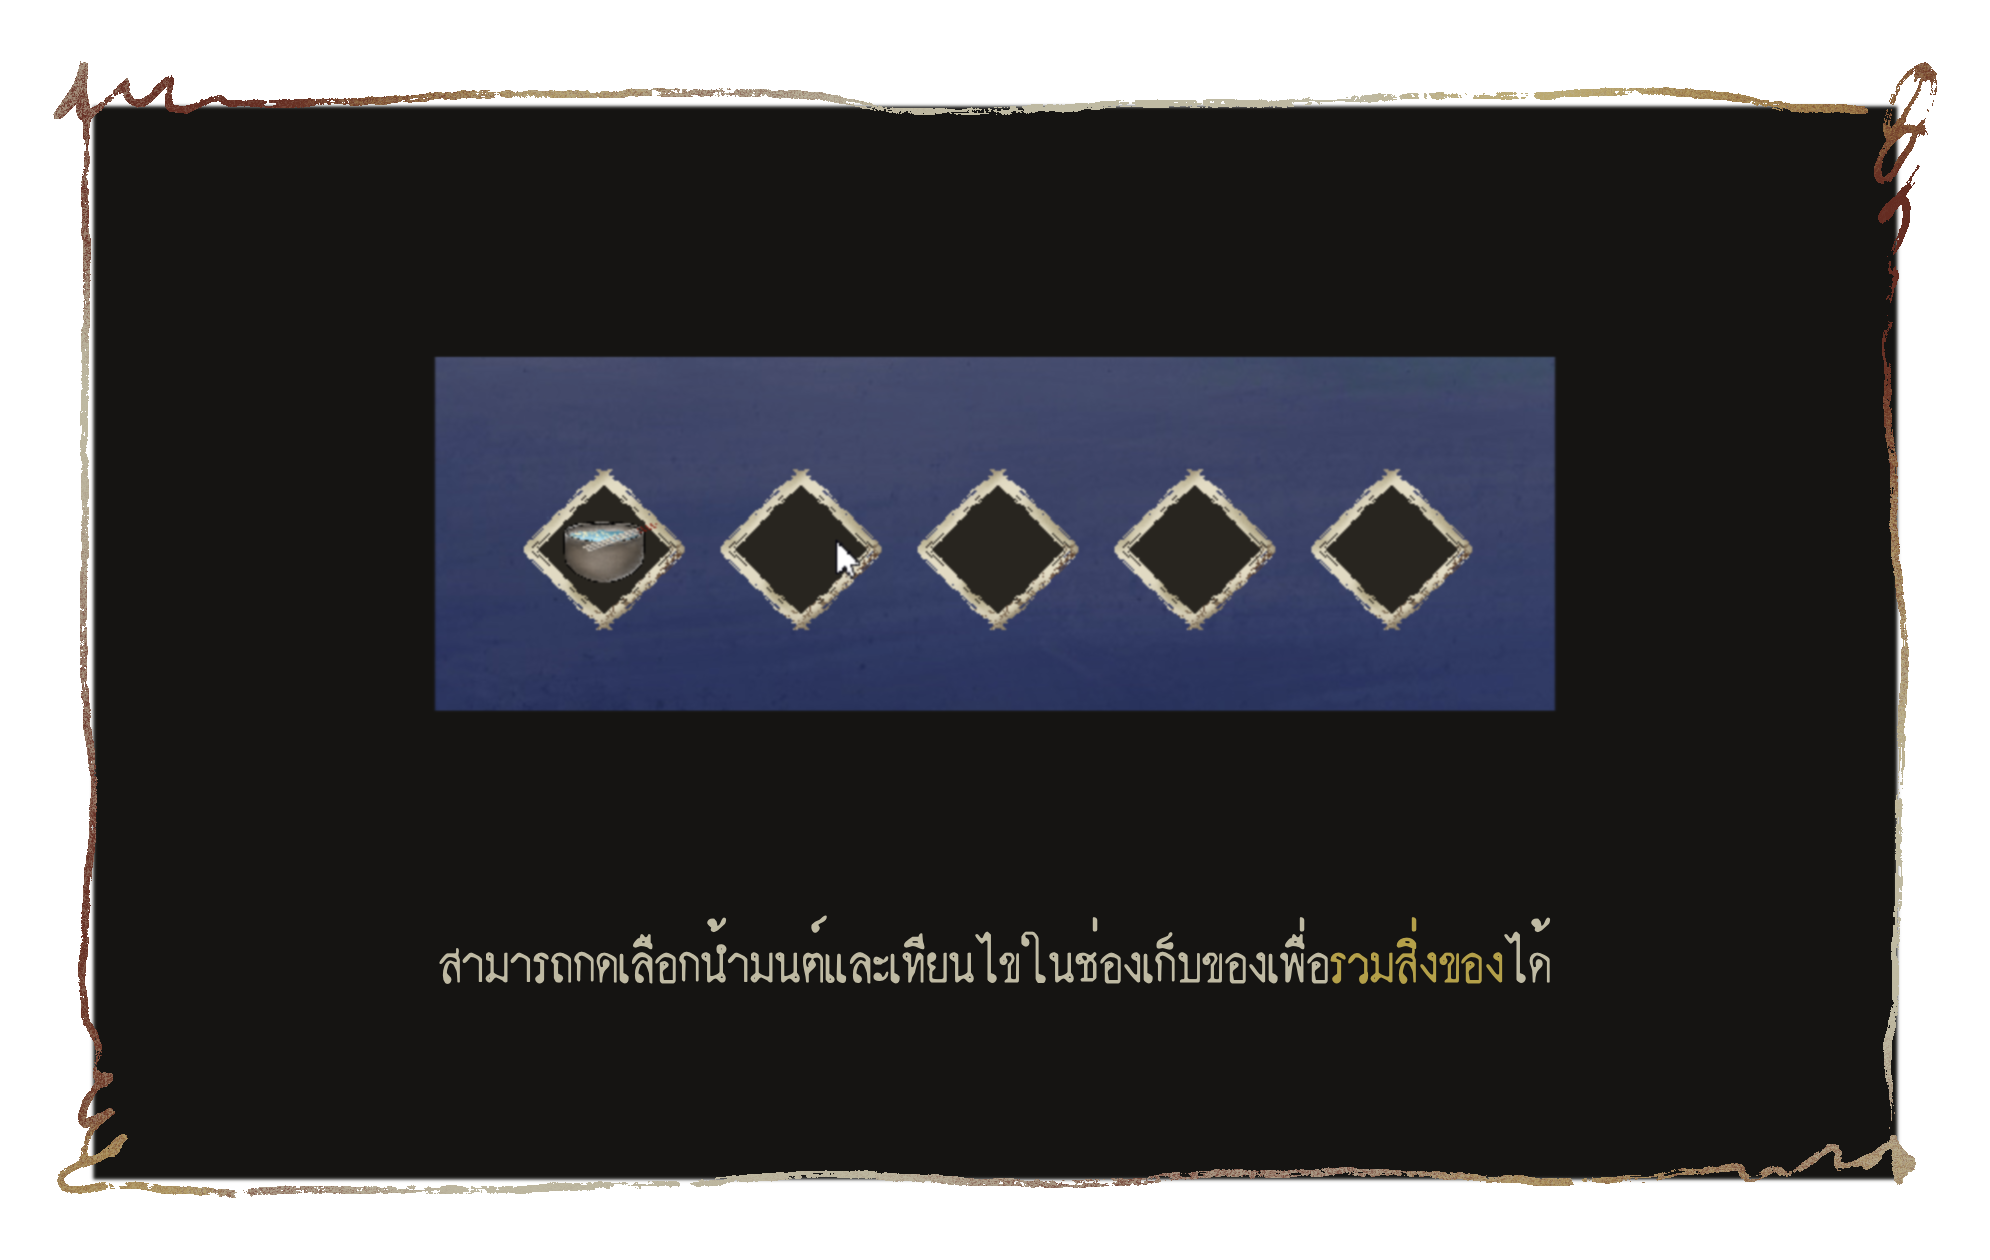
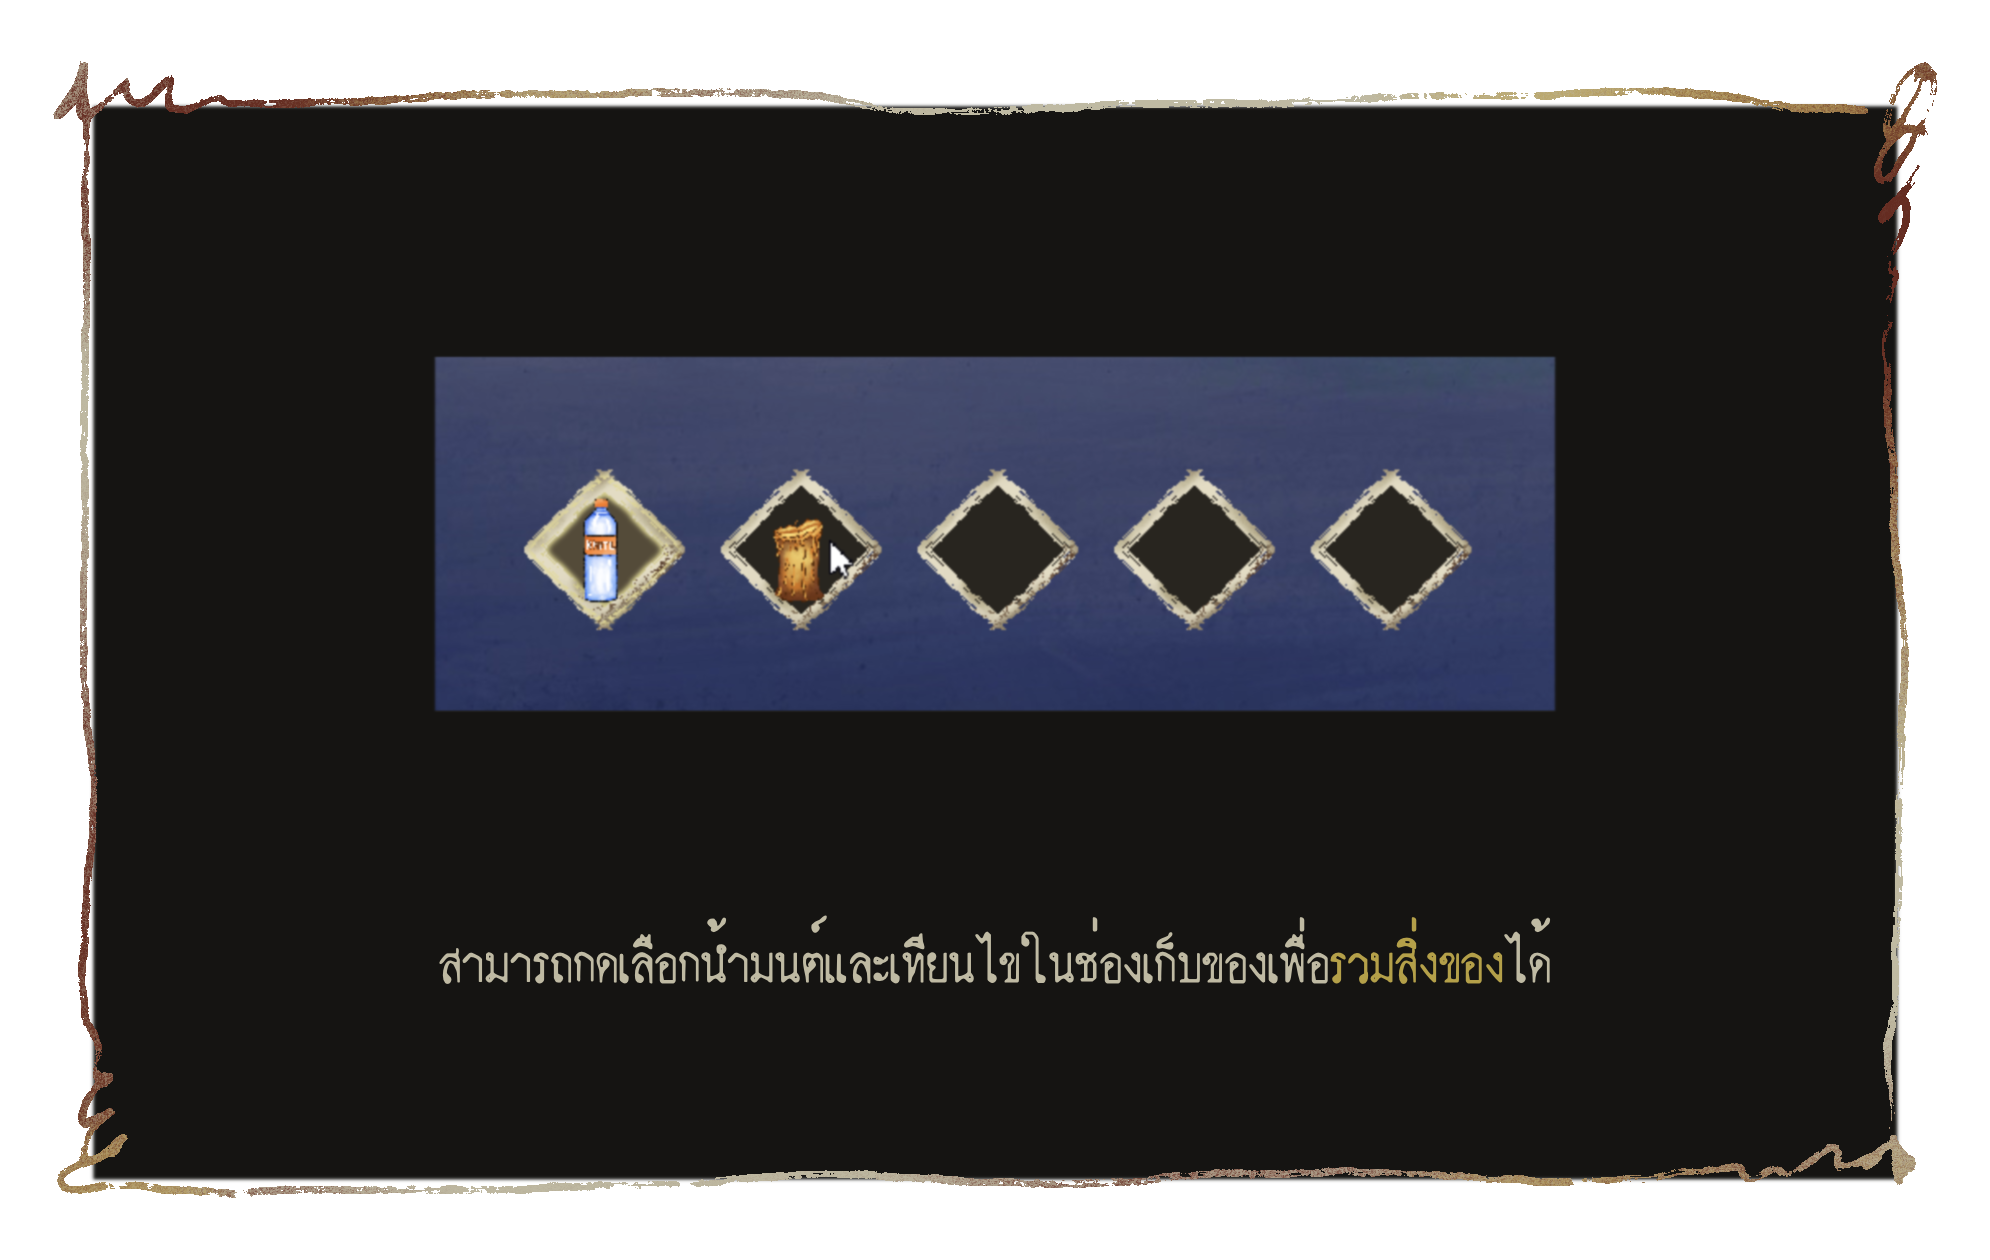
แก้ Tutorial ให้เห็นแล้วจ้า + เพิ่มอีกหน้า

Changed region(s): [[0.2492, 0.3714, 0.3427, 0.4952], [0.3739, 0.4024, 0.4362, 0.4952]]

diff --git a/src/ui/MainGameFrame.java b/src/ui/MainGameFrame.java
@@ -26,10 +26,11 @@ public class MainGameFrame extends JFrame {
     private GameOverPanel gameOverPanel;
     private Tutorial tutorial;
     private static MainGameFrame instance;
-    private Boolean isStartGame = false;
+    private Boolean isStartGame;
 
     public MainGameFrame() {
         instance = this;
+        isStartGame = false;
         this.setUndecorated(true);
         layeredPane = new JLayeredPane();
         screenSize = Toolkit.getDefaultToolkit().getScreenSize();
@@ -65,8 +66,8 @@ public class MainGameFrame extends JFrame {
         layeredPane.add(mainCardPanel, JLayeredPane.DEFAULT_LAYER);      // ชั้นหลังสุด
         layeredPane.add(settingPanel, JLayeredPane.PALETTE_LAYER);      // ชั้นเมนู Setting (ต้องอยู่เหนือเมนูหลัก)
         layeredPane.add(gameOverPanel, JLayeredPane.MODAL_LAYER);
-        layeredPane.add(tutorial, JLayeredPane.POPUP_LAYER);
-        layeredPane.add(DiaryUi.getInstance(), JLayeredPane.DRAG_LAYER);
+        layeredPane.add(DiaryUi.getInstance(), JLayeredPane.POPUP_LAYER);
+        layeredPane.add(tutorial, JLayeredPane.DRAG_LAYER);
         layeredPane.add(fadeTransition, JLayeredPane.DRAG_LAYER);       // ชั้นหน้าสุดสำหรับฉาก Fade
 
         DiaryUi.getInstance().setBounds(0, 0, widthSystem, heightSystem);

diff --git a/src/ui/Tutorial.java b/src/ui/Tutorial.java
@@ -27,8 +27,8 @@ public class Tutorial extends JPanel {
             tutorialStartImage[2] = ImageIO.read(getClass().getResource("/res/Tutorial3.png"));
             tutorialStartImage[3] = ImageIO.read(getClass().getResource("/res/Tutorial4.png"));
 
-            tutorialCombineImage[0] = ImageIO.read(getClass().getResource("/res/Tutorial4.png"));
-            tutorialCombineImage[1] = ImageIO.read(getClass().getResource("/res/Tutorial5.png"));
+            tutorialCombineImage[0] = ImageIO.read(getClass().getResource("/res/Tutorial5.png"));
+            tutorialCombineImage[1] = ImageIO.read(getClass().getResource("/res/Tutorial6.png"));
 
             iconLeft = new ImageIcon(new ImageIcon("src/res/TutorialBtnLeft.png").getImage().getScaledInstance(110, 74, Image.SCALE_SMOOTH));
             iconRight = new ImageIcon(new ImageIcon("src/res/TutorialBtnRight.png").getImage().getScaledInstance(110, 74, Image.SCALE_SMOOTH));

diff --git a/src/ui/SettingPanel.java b/src/ui/SettingPanel.java
@@ -34,8 +34,6 @@ public class SettingPanel extends JPanel {
         backHoverBtnImg = new ImageIcon("src/res/SettingBtnBack02.png").getImage();
         returnNormalBtnImg = new ImageIcon("src/res/SettingBtnReturn01.png").getImage();
         returnHoverBtnImg = new ImageIcon("src/res/SettingBtnReturn02.png").getImage();
-        parent.setIsStartGame(true);
-
 
         setBackground(new Color(232, 94, 94, 200));
         setLayout(new GridBagLayout());
@@ -105,6 +103,7 @@ public class SettingPanel extends JPanel {
         buttonReturn.setText("");
         buttonReturn.addActionListener(e -> {
             parent.toggleSetting(false, false); // ปิดหน้า Setting ก่อน
+            parent.setIsStartGame(true);
             parent.returnToMainMenu();  // เรียกเมธอดกลางเพื่อกลับเมนู
         });
 
